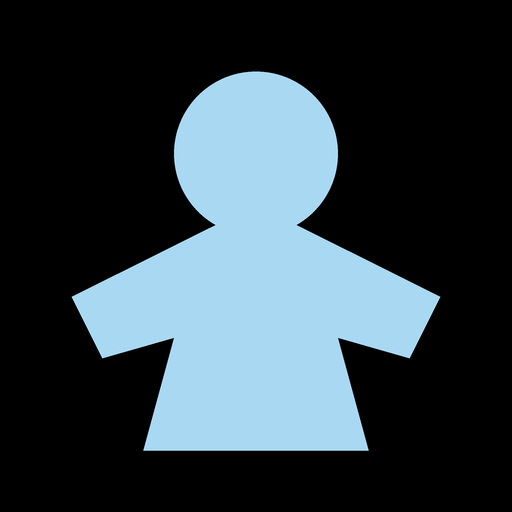
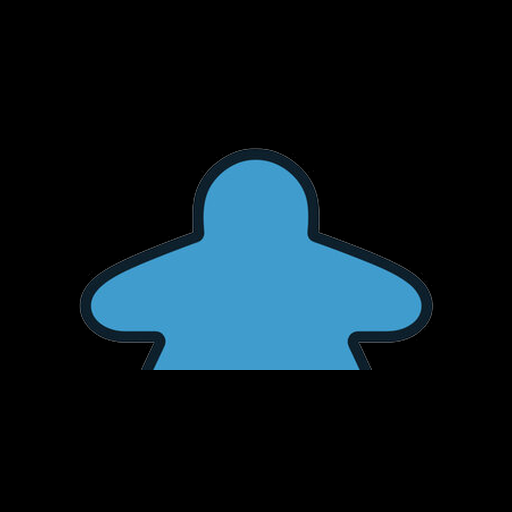
Add files via upload

diff --git a/index.html b/index.html
@@ -5,6 +5,7 @@
 <link rel="manifest" href="manifest.json">
 <meta name="theme-color" content="#000000">
 <link rel="icon" href="icon-192.png">
+<link rel="apple-touch-icon" href="icon-192.png">
 <meta name="viewport" content="width=device-width, initial-scale=1, viewport-fit=cover">
 <title>THE MEEPLE RULE</title>
 <style>
@@ -122,14 +123,14 @@ function chunk(pages){const out=[];pages.forEach((t,i)=>{const s=t.replace(/\s+/
 async function importFile(f){
   
   try{
-    const buf=await f.arrayBuffer(),nm=cleanName(f.name),h=await fhash(buf);
+    const buf=await TO(f.arrayBuffer(),60000,"lettura del file non riuscita (è disponibile sul telefono?)"),nm=cleanName(f.name),h=await fhash(buf);
     if(games.some(x=>x.h===h||norm(cleanName(x.name))===norm(nm))){dupN++;note(`“${nm}” è già presente: non lo importo di nuovo.`);return}
     let pages=[];
     if(/\.pdf$/i.test(f.name)){
       if(!window.pdfjsLib){bad(f.name,"lettore PDF non disponibile (serve la connessione)");note("Per leggere un PDF serve la connessione, almeno la prima volta. Puoi importare anche un file di testo.");return}
       pdfjsLib.GlobalWorkerOptions.workerSrc=WORKER;
-      const pdf=await pdfjsLib.getDocument({data:new Uint8Array(buf)}).promise;
-      for(let i=1;i<=pdf.numPages;i++){const pg=await pdf.getPage(i),tc=await pg.getTextContent();pages.push(tc.items.map(x=>x.str).join(" "));pg.cleanup();prog(PG.i,PG.n,nm,.9*i/pdf.numPages);await new Promise(r=>setTimeout(r,0))}try{await pdf.destroy()}catch(e){}
+      const task=pdfjsLib.getDocument({data:new Uint8Array(buf)});let pdf;try{pdf=await TO(task.promise,60000)}catch(e){try{task.destroy()}catch(_){}throw e}
+      try{for(let i=1;i<=pdf.numPages;i++){const pg=await TO(pdf.getPage(i),45000),tc=await TO(pg.getTextContent(),45000);pages.push(tc.items.map(x=>x.str).join(" "));pg.cleanup();prog(PG.i,PG.n,nm,.9*i/pdf.numPages);await new Promise(r=>setTimeout(r,0))}}finally{try{pdf.destroy()}catch(e){}}
     }else{const t=await f.text();for(let i=0;i<t.length;i+=3000)pages.push(t.slice(i,i+3000))}
     const chunks=chunk(pages);
     if(!chunks.length){bad(f.name,"nessun testo leggibile (forse è una scansione)");note("Nel file non c’è testo leggibile. Se è una scansione, serve un PDF con testo selezionabile.");return}
@@ -143,6 +144,9 @@ function cleanName(s){let n=s.replace(/\.(pdf|txt|md)$/i,"").replace(/[_\-]+/g,"
 async function fhash(buf){try{const b=await crypto.subtle.digest("SHA-256",buf);return[...new Uint8Array(b)].map(x=>x.toString(16).padStart(2,"0")).join("")}catch(e){return"s"+buf.byteLength+":"+Date.now()}}
 let dupN=0,PG={i:1,n:1},FAIL=[];
 function bad(n,r){FAIL.push({n,r})}
+function TO(p,ms,msg){let t;return Promise.race([p,new Promise((_,rj)=>{t=setTimeout(()=>rj(new Error(msg||"tempo scaduto: il file non risponde")),ms)})]).finally(()=>clearTimeout(t))}
+let WL=null;
+async function keepAwake(on){window.__imp=on;try{if(on)WL=await navigator.wakeLock.request("screen");else if(WL){await WL.release();WL=null}}catch(e){}}
 function showFail(save=true){
   const R=$("#rep");R.innerHTML="";
   if(save)try{localStorage.setItem("mr_fail",JSON.stringify(FAIL))}catch(e){}
@@ -229,12 +233,12 @@ function fill(){
   games.forEach(g=>{const o=el("option");o.value=g.id;o.textContent=g.name;if(cur&&g.id===cur.id)o.selected=true;s.append(o)});
   $("#del").disabled=!cur;
 }
-function net(){const n=$("#net");const on=navigator.onLine;n.textContent=on?"online":"offline";n.className=on?"on":""}
+function net(){const n=$("#net");const on=navigator.onLine;n.textContent=(on?"online":"offline")+" · v10";n.className=on?"on":""}
 function send(){const i=$("#q"),v=i.value.trim();if(!v)return;if(!cur){note("Importa prima un regolamento.");return}i.value="";ask(v)}
 addEventListener("error",e=>note("Errore: "+e.message));
 $("#txt").onclick=()=>$("#paste").classList.toggle("on");
 $("#psave").onclick=async()=>{const t=$("#pt").value.trim();if(!t)return;const pages=[];for(let i=0;i<t.length;i+=3000)pages.push(t.slice(i,i+3000));await saveGame($("#pn").value.trim()||"Gioco senza nome",pages);$("#pt").value="";$("#pn").value="";$("#paste").classList.remove("on")};
-$("#file").onchange=async e=>{const fs=[...e.target.files];e.target.value="";const n0=games.length;dupN=0;FAIL=[];showFail();for(let i=0;i<fs.length;i++){PG={i:i+1,n:fs.length};prog(i+1,fs.length,cleanName(fs[i].name),0);await importFile(fs[i]);showFail();await new Promise(r=>setTimeout(r,30))}$("#pb").style.width="100%";setTimeout(()=>$("#prog").classList.remove("on"),700);const ok=games.length-n0;if(fs.length>1){note(`Importati ${ok} su ${fs.length}${dupN?`, ${dupN} già presenti`:""}${FAIL.length?`, ${FAIL.length} con errore`:""}.`);feed.innerHTML="";hint(ok?`${ok} regolamenti importati. Scegli il gioco dal menu e fai una domanda.`:dupN?"Erano già tutti presenti.":"Nessun file importato.")}showFail()};
+$("#file").onchange=async e=>{const fs=[...e.target.files];e.target.value="";const n0=games.length;dupN=0;FAIL=[];showFail();keepAwake(true);for(let i=0;i<fs.length;i++){PG={i:i+1,n:fs.length};prog(i+1,fs.length,cleanName(fs[i].name),0);await importFile(fs[i]);showFail();await new Promise(r=>setTimeout(r,30))}keepAwake(false);$("#pb").style.width="100%";setTimeout(()=>$("#prog").classList.remove("on"),700);const ok=games.length-n0;if(fs.length>1){note(`Importati ${ok} su ${fs.length}${dupN?`, ${dupN} già presenti`:""}${FAIL.length?`, ${FAIL.length} con errore`:""}.`);feed.innerHTML="";hint(ok?`${ok} regolamenti importati. Scegli il gioco dal menu e fai una domanda.`:dupN?"Erano già tutti presenti.":"Nessun file importato.")}showFail()};
 $("#sel").onchange=e=>{cur=games.find(g=>g.id===e.target.value)||null;feed.innerHTML="";cur&&hint(`Domande su “${cur.name}”.`)};
 let armed=0;
 $("#del").onclick=async e=>{
@@ -270,7 +274,7 @@ addEventListener("online",net);addEventListener("offline",net);net();
   showFail(false);
   hint(cur?`Domande su “${cur.name}”.`:"Importa un regolamento (PDF o testo) per iniziare.");
 })();
-if("serviceWorker"in navigator)addEventListener("load",()=>navigator.serviceWorker.register("sw.js").catch(()=>{}));
+if("serviceWorker"in navigator){const had=!!navigator.serviceWorker.controller;addEventListener("load",()=>navigator.serviceWorker.register("sw.js").then(r=>r.update()).catch(()=>{}));navigator.serviceWorker.addEventListener("controllerchange",()=>{if(had&&!window.__r&&!window.__imp){window.__r=1;location.reload()}})}
 </script>
 </body>
 </html>

diff --git a/sw.js b/sw.js
@@ -1,4 +1,13 @@
-const C='meeple-rule-v9',F=['./','index.html','pdf.min.js','pdf.worker.min.js','manifest.json','icon-192.png','icon-512.png'];
-self.addEventListener('install',e=>{e.waitUntil(caches.open(C).then(c=>c.addAll(F)));self.skipWaiting()});
+const C='meeple-rule-v10',F=['./','index.html','pdf.min.js','pdf.worker.min.js','manifest.json','icon-192.png','icon-512.png'];
+self.addEventListener('install',e=>{e.waitUntil(caches.open(C).then(c=>Promise.all(F.map(u=>c.add(new Request(u,{cache:'reload'}))))));self.skipWaiting()});
 self.addEventListener('activate',e=>e.waitUntil(caches.keys().then(k=>Promise.all(k.filter(x=>x!==C).map(x=>caches.delete(x)))).then(()=>self.clients.claim())));
-self.addEventListener('fetch',e=>{if(e.request.method!=='GET')return;e.respondWith(caches.match(e.request).then(r=>r||fetch(e.request)))});
+function fresh(req){
+  const n=fetch(req).then(r=>{if(r.ok){const cp=r.clone();caches.open(C).then(c=>c.put(req,cp))}return r});
+  const t=new Promise(res=>setTimeout(()=>res(null),3000));
+  return Promise.race([n.catch(()=>null),t]).then(r=>r||caches.match(req)).then(r=>r||caches.match('index.html')).then(r=>r||n);
+}
+self.addEventListener('fetch',e=>{
+  if(e.request.method!=='GET')return;
+  const u=new URL(e.request.url),page=e.request.mode==='navigate'||u.pathname.endsWith('/')||u.pathname.endsWith('index.html');
+  e.respondWith(page?fresh(e.request):caches.match(e.request).then(r=>r||fetch(e.request)));
+});
